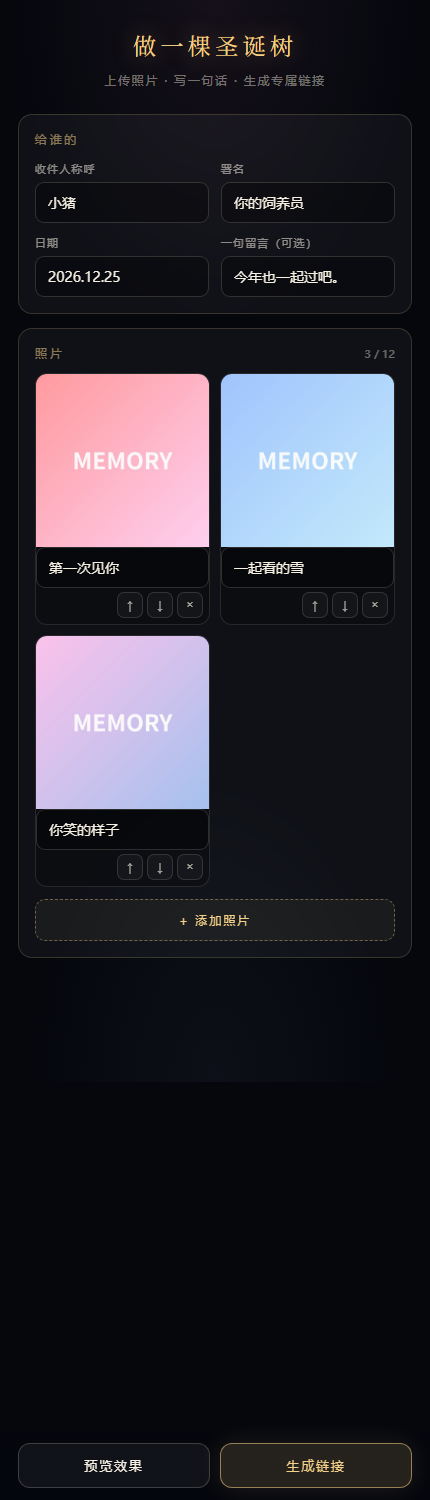
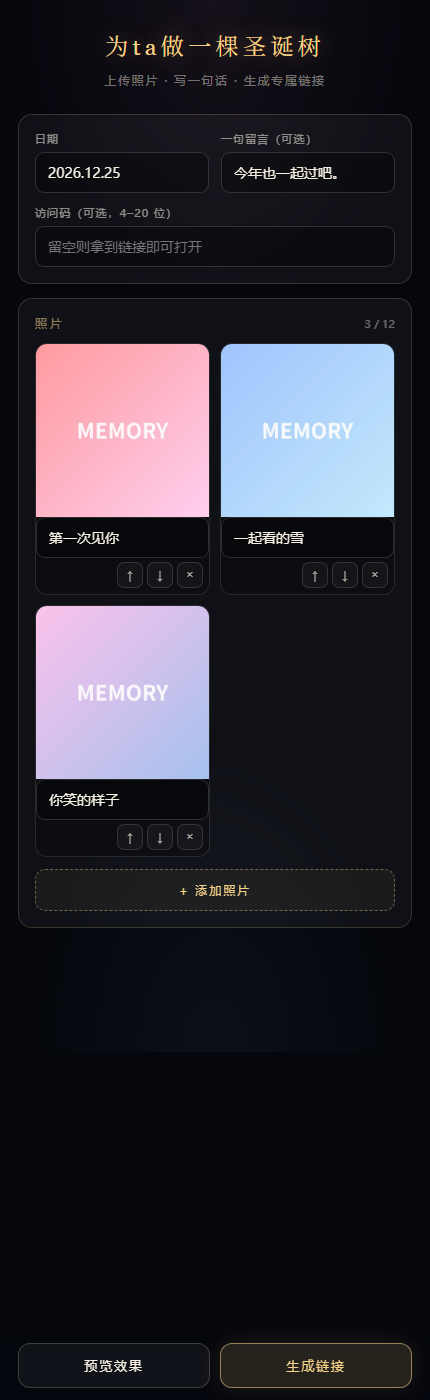
Make the burst more dramatic and simplify the editor

diff --git a/js/main.js b/js/main.js
@@ -90,6 +90,10 @@ let captionGroup;
 let captionSets = [];
 let captionProgress = 0;
 let captionIndex = -1;
+let bloomBase = 1;
+let bloomPulse = 0;
+let ringSprite;
+let ringTime = -1;
 const lookAt = new THREE.Vector3(0, 0.2, 0);
 const cameraPosition = new THREE.Vector3(0, 1.8, 12);
 
@@ -110,6 +114,24 @@ function makeGlowTexture(inner = 1) {
   return texture;
 }
 
+function makeRingTexture() {
+  const size = 256;
+  const canvas = document.createElement("canvas");
+  canvas.width = canvas.height = size;
+  const ctx = canvas.getContext("2d");
+  const g = ctx.createRadialGradient(size / 2, size / 2, size * 0.24, size / 2, size / 2, size / 2);
+  g.addColorStop(0, "rgba(255,255,255,0)");
+  g.addColorStop(0.64, "rgba(255,255,255,0)");
+  g.addColorStop(0.74, "rgba(255,240,205,0.85)");
+  g.addColorStop(0.82, "rgba(255,205,130,0.2)");
+  g.addColorStop(1, "rgba(255,255,255,0)");
+  ctx.fillStyle = g;
+  ctx.fillRect(0, 0, size, size);
+  const texture = new THREE.CanvasTexture(canvas);
+  texture.colorSpace = THREE.SRGBColorSpace;
+  return texture;
+}
+
 function treePosition(index, total) {
   const t = Math.pow((index + 1) / total, 0.82);
   const y = t * 8 - 4;
@@ -119,7 +141,7 @@ function treePosition(index, total) {
 }
 
 function galaxyPosition(scale = 1) {
-  const radius = (2.4 + Math.pow(Math.random(), 1.7) * 5.4) * scale;
+  const radius = (3.6 + Math.pow(Math.random(), 1.6) * 9.4) * scale;
   const theta = Math.random() * Math.PI * 2;
   const phi = Math.acos(2 * Math.random() - 1);
   return [
@@ -167,6 +189,7 @@ function buildScene() {
   composer = new EffectComposer(renderer);
   composer.addPass(new RenderPass(scene, camera));
   bloomPass = new UnrealBloomPass(new THREE.Vector2(window.innerWidth, window.innerHeight), LOW_POWER ? 0.7 : 0.9, 0.5, 0.9);
+  bloomBase = bloomPass.strength;
   composer.addPass(bloomPass);
 
   focusLight = new THREE.PointLight(0xffd28a, 0, 20);
@@ -174,6 +197,14 @@ function buildScene() {
   scene.add(focusLight);
 
   starGlowTexture = makeGlowTexture(1.2);
+  ringSprite = new THREE.Sprite(new THREE.SpriteMaterial({
+    map: makeRingTexture(), color: 0xffe7b5, transparent: true, opacity: 0,
+    depthWrite: false, blending: THREE.AdditiveBlending, toneMapped: false
+  }));
+  ringSprite.position.set(0, 0.3, 0);
+  ringSprite.scale.setScalar(0.1);
+  ringSprite.visible = false;
+  scene.add(ringSprite);
 }
 
 function buildStars() {
@@ -882,10 +913,28 @@ function onResize() {
   bloomPass.resolution.set(window.innerWidth / 2, window.innerHeight / 2);
 }
 
+function triggerBurst() {
+  bloomPulse = 1.0;
+  const flash = document.getElementById("flash");
+  if (flash) {
+    flash.classList.remove("burst");
+    void flash.offsetWidth;
+    flash.classList.add("burst");
+  }
+  if (ringSprite) {
+    ringTime = 0;
+    ringSprite.visible = true;
+    ringSprite.material.opacity = 0.72;
+    ringSprite.scale.setScalar(2);
+  }
+}
+
 function setMode(mode) {
   if (app.mode === mode) return;
+  const wasTree = app.mode === "tree";
   app.mode = mode;
   document.body.classList.toggle("focus-mode", mode === "focus");
+  if (mode === "galaxy" && wasTree) triggerBurst();
   if (mode === "tree") {
     app.target = 0;
     app.focusIndex = -1;
@@ -964,6 +1013,8 @@ function updatePhotos(dt) {
     card.group.position.y += Math.sin(app.time * 0.9 + card.phase) * 0.012;
     card.group.scale.setScalar(card.scale);
     card.group.lookAt(camera.position);
+    const flare = Math.sin(Math.PI * Math.min(1, Math.max(0, app.progress)));
+    card.group.rotateZ(flare * (card.index % 2 ? 0.22 : -0.22));
     const focusedCard = app.mode === "focus" && app.focusIndex === card.index;
     card.group.visible = app.mode !== "focus" || focusedCard;
     card.hit.visible = !(app.mode === "tree" && card.placeholder);
@@ -986,9 +1037,23 @@ function updateTransforms(dt) {
     const local = Math.min(1, Math.max(0, (progress - particles.delays[i] * 0.5) / 0.62));
     const eased = local * local * (3 - 2 * local);
     const breathe = idle ? Math.sin(time * particles.speeds[i] + particles.phases[i]) * 0.02 : 0;
-    pos[i3] = particles.tree[i3] + (particles.galaxy[i3] - particles.tree[i3]) * eased;
-    pos[i3 + 1] = particles.tree[i3 + 1] + (particles.galaxy[i3 + 1] - particles.tree[i3 + 1]) * eased + breathe;
-    pos[i3 + 2] = particles.tree[i3 + 2] + (particles.galaxy[i3 + 2] - particles.tree[i3 + 2]) * eased;
+    let x = particles.tree[i3] + (particles.galaxy[i3] - particles.tree[i3]) * eased;
+    let y = particles.tree[i3 + 1] + (particles.galaxy[i3 + 1] - particles.tree[i3 + 1]) * eased + breathe;
+    let z = particles.tree[i3 + 2] + (particles.galaxy[i3 + 2] - particles.tree[i3 + 2]) * eased;
+    const swell = Math.sin(Math.PI * eased);
+    if (swell > 0.001) {
+      const radius = Math.hypot(x, z);
+      if (radius > 0.01) {
+        const angle = Math.atan2(z, x) + swell * (0.55 + (i % 9) * 0.09);
+        const grown = radius * (1 + swell * 0.5);
+        x = Math.cos(angle) * grown;
+        z = Math.sin(angle) * grown;
+      }
+      y += swell * Math.sin(i * 0.7) * 0.7;
+    }
+    pos[i3] = x;
+    pos[i3 + 1] = y;
+    pos[i3 + 2] = z;
   }
   particleSystem.geometry.attributes.position.needsUpdate = true;
   particleSystem.material.opacity = focusDim;
@@ -1000,9 +1065,22 @@ function updateTransforms(dt) {
     const local = Math.min(1, Math.max(0, (progress - spark.delays[i] * 0.5) / 0.62));
     const eased = local * local * (3 - 2 * local);
     const source = Math.floor(i * (COUNT.particles / spark.count)) % COUNT.particles;
-    sparkPos[i3] = spark.tree[source * 3] + (spark.galaxy[source * 3] - spark.tree[source * 3]) * eased;
-    sparkPos[i3 + 1] = spark.tree[source * 3 + 1] + (spark.galaxy[source * 3 + 1] - spark.tree[source * 3 + 1]) * eased;
-    sparkPos[i3 + 2] = spark.tree[source * 3 + 2] + (spark.galaxy[source * 3 + 2] - spark.tree[source * 3 + 2]) * eased;
+    let x = spark.tree[source * 3] + (spark.galaxy[source * 3] - spark.tree[source * 3]) * eased;
+    let y = spark.tree[source * 3 + 1] + (spark.galaxy[source * 3 + 1] - spark.tree[source * 3 + 1]) * eased;
+    let z = spark.tree[source * 3 + 2] + (spark.galaxy[source * 3 + 2] - spark.tree[source * 3 + 2]) * eased;
+    const swell = Math.sin(Math.PI * eased);
+    if (swell > 0.001) {
+      const radius = Math.hypot(x, z);
+      if (radius > 0.01) {
+        const angle = Math.atan2(z, x) + swell * (0.5 + (i % 6) * 0.1);
+        const grown = radius * (1 + swell * 0.45);
+        x = Math.cos(angle) * grown;
+        z = Math.sin(angle) * grown;
+      }
+    }
+    sparkPos[i3] = x;
+    sparkPos[i3 + 1] = y;
+    sparkPos[i3 + 2] = z;
   }
   sparkleSystem.geometry.attributes.position.needsUpdate = true;
   sparkleSystem.material.opacity = 0.7 * focusDim;
@@ -1114,7 +1192,7 @@ function updateCamera(dt) {
     targetPos.set(0, 0.35, 9.8);
     targetLook.copy(FOCUS_POS);
   } else if (app.mode === "galaxy") {
-    const radius = camera.aspect > 1.15 ? 20 : (LOW_POWER ? 17 : 16.5);
+    const radius = camera.aspect > 1.15 ? 24 : (LOW_POWER ? 20.5 : 20);
     const phi = cameraOrbit.phi;
     targetPos.set(
       radius * Math.sin(phi) * Math.sin(cameraOrbit.theta),
@@ -1161,7 +1239,7 @@ function loop(now) {
   if (app.mode === "tree") {
     app.progress = Math.max(0, app.progress - dt / 1.4);
   } else {
-    app.progress = Math.min(1, app.progress + dt / 1.7);
+    app.progress = Math.min(1, app.progress + dt / 2.0);
   }
 
   pointer.x += (pointer.tx - pointer.x) * 0.05;
@@ -1175,6 +1253,26 @@ function loop(now) {
   updateSnow(dt);
 
   if (starField) starField.rotation.y += dt * 0.004;
+
+  if (ringTime >= 0 && ringSprite) {
+    ringTime += dt;
+    const p = ringTime / 1.15;
+    if (p >= 1) {
+      ringTime = -1;
+      ringSprite.visible = false;
+    } else {
+      ringSprite.visible = true;
+      ringSprite.scale.setScalar(3 + p * 65);
+      ringSprite.material.opacity = (1 - p) * 0.72;
+    }
+  }
+
+  if (bloomPulse > 0.001) {
+    bloomPulse *= Math.exp(-dt * 3.2);
+  } else {
+    bloomPulse = 0;
+  }
+  if (bloomPass) bloomPass.strength = bloomBase + bloomPulse;
 
   composer.render();
 }

diff --git a/js/editor.js b/js/editor.js
@@ -3,8 +3,6 @@ let maxEdge = 1280;
 const QUALITY = 0.82;
 
 const $ = id => document.getElementById(id);
-const toInput = $("to");
-const fromInput = $("from");
 const dateInput = $("date");
 const messageInput = $("message");
 const passwordInput = $("password");
@@ -31,8 +29,6 @@ function toast(text) {
 
 function payload() {
   return {
-    to: toInput.value.trim(),
-    from: fromInput.value.trim(),
     date: dateInput.value.trim() || "2026.12.25",
     message: messageInput.value.trim(),
     password: passwordInput.value.trim(),
@@ -131,8 +127,6 @@ function move(index, delta) {
 function saveMeta() {
   try {
     localStorage.setItem("gift-meta", JSON.stringify({
-      to: toInput.value,
-      from: fromInput.value,
       date: dateInput.value,
       message: messageInput.value
     }));
@@ -143,8 +137,6 @@ function loadMeta() {
   try {
     const meta = JSON.parse(localStorage.getItem("gift-meta") || "null");
     if (!meta) return;
-    if (meta.to) toInput.value = meta.to;
-    if (meta.from) fromInput.value = meta.from;
     if (meta.date) dateInput.value = meta.date;
     if (meta.message) messageInput.value = meta.message;
   } catch (error) {}
@@ -253,17 +245,12 @@ async function makeOgImage() {
   try { await document.fonts.load('400 86px "Zhi Mang Xing"', "给"); } catch (error) {}
   ctx.font = '400 86px "Zhi Mang Xing", "KaiTi", serif';
   ctx.fillStyle = "#f7e6bb";
-  ctx.fillText("给 " + (toInput.value.trim() || "你"), 600, 300, 1000);
+  const centerText = messageInput.value.trim() || "圣诞快乐";
+  ctx.fillText(centerText, 600, 300, 1000);
   if ("letterSpacing" in ctx) ctx.letterSpacing = "6px";
   ctx.font = "400 30px Georgia, serif";
   ctx.fillStyle = "rgba(247,241,227,0.72)";
   ctx.fillText(dateInput.value.trim() || "2026.12.25", 600, 392);
-  const from = fromInput.value.trim();
-  if (from) {
-    ctx.fillStyle = "rgba(244,208,137,0.66)";
-    ctx.font = "400 26px Georgia, serif";
-    ctx.fillText("—— " + from, 600, 446, 900);
-  }
   if ("letterSpacing" in ctx) ctx.letterSpacing = "3px";
   ctx.font = "400 20px Georgia, serif";
   ctx.fillStyle = "rgba(244,208,137,0.48)";
@@ -330,7 +317,7 @@ previewBtn.addEventListener("click", localPreview);
 publishBtn.addEventListener("click", publish);
 $("copyBtn").addEventListener("click", copyLink);
 $("closeResult").addEventListener("click", () => resultModal.classList.add("hidden"));
-[toInput, fromInput, dateInput, messageInput].forEach(input => input.addEventListener("change", saveMeta));
+[dateInput, messageInput].forEach(input => input.addEventListener("change", saveMeta));
 
 async function loadLimits() {
   try {

diff --git a/create.html b/create.html
@@ -4,7 +4,7 @@
 <meta charset="UTF-8">
 <meta name="viewport" content="width=device-width, initial-scale=1, viewport-fit=cover">
 <meta name="theme-color" content="#05070d">
-<title>做一棵圣诞树</title>
+<title>为ta做一棵圣诞树</title>
 <meta name="description" content="上传照片，写一句话，生成属于你们的圣诞树。">
 <link rel="preconnect" href="https://fastly.jsdelivr.net" crossorigin>
 <link rel="stylesheet" href="https://fastly.jsdelivr.net/npm/@fontsource/zhi-mang-xing@5.0.0/index.css">
@@ -146,15 +146,12 @@
 <body>
 <div class="wrap">
   <header>
-    <h1>做一棵圣诞树</h1>
+    <h1>为ta做一棵圣诞树</h1>
     <p>上传照片 · 写一句话 · 生成专属链接</p>
   </header>
 
   <section class="panel">
-    <h2>给谁的</h2>
     <div class="fields">
-      <label class="field"><span>收件人称呼</span><input id="to" type="text" maxlength="12" placeholder="她的小名"></label>
-      <label class="field"><span>署名</span><input id="from" type="text" maxlength="16" placeholder="你的名字"></label>
       <label class="field"><span>日期</span><input id="date" type="text" maxlength="20" value="2026.12.25"></label>
       <label class="field"><span>一句留言（可选）</span><input id="message" type="text" maxlength="40" placeholder="写一句想说的话"></label>
       <label class="field full"><span>访问码（可选，4–20 位）</span><input id="password" type="text" maxlength="20" placeholder="留空则拿到链接即可打开"></label>

diff --git a/index.html b/index.html
@@ -34,6 +34,16 @@
   #stage { position: fixed; inset: 0; cursor: grab; }
   #stage:active { cursor: grabbing; }
   #stage canvas { display: block; }
+  #flash {
+    position: fixed; inset: 0; pointer-events: none; z-index: 3; opacity: 0;
+    background: radial-gradient(circle at 50% 46%, rgba(255,241,205,0.95), rgba(244,208,137,0.4) 32%, transparent 66%);
+  }
+  #flash.burst { animation: burst 0.95s ease-out; }
+  @keyframes burst {
+    0% { opacity: 0; transform: scale(0.6); }
+    14% { opacity: 0.9; }
+    100% { opacity: 0; transform: scale(1.25); }
+  }
   .vignette {
     position: fixed; inset: 0; pointer-events: none; z-index: 2;
     background:
@@ -206,6 +216,7 @@
 <body>
 <div id="stage"></div>
 <div class="vignette"></div>
+<div id="flash"></div>
 
 <header class="topbar">
   <h1>MERRY CHRISTMAS</h1>

diff --git a/README.md b/README.md
@@ -12,6 +12,8 @@
 
 ![圣诞树](docs/tree.png)
 
+![绽放](docs/burst.png)
+
 ![编辑器](docs/editor.png)
 
 ![照片与粒子文案](docs/focus.png)
@@ -20,9 +22,10 @@
 
 - **3D 粒子圣诞树**：暖金灯光、红绿彩球、礼物盒、树顶星，Bloom 泛光与暗角。
 - **手势交互**：MediaPipe Hands 识别张开 / 握拳 / 捏合；没有摄像头时可用点击与拖拽。
+- **绽放式散开**：点击后闪光、冲击波与螺旋外扩，粒子向四周绽开。
 - **照片**：上传后自动压缩；树上是挂饰，散开后飞成星云；点击照片进入特写。
 - **每张照片一句文案**：特写时由粒子以艺术字（Zhi Mang Xing 行书）汇聚在照片上方。
-- **个性化链接**：收件人称呼、署名、日期、留言；链接形如 `/?g=<12位ID>`。
+- **个性化链接**：日期与留言；链接形如 `/?g=<12位ID>`。
 - **二维码**：生成链接时同步生成二维码，方便当面扫。
 - **动态分享卡片**：`/?g=<id>` 由服务端输出动态标题、描述和 OG 图；未加密礼物会使用浏览器生成的专属 1200×630 分享图。
 - **访问码**：可选 4–20 位访问码；加盐哈希存储，照片使用 7 天有效的 HMAC 签名地址，不能靠猜路径直接访问。
@@ -33,7 +36,7 @@
 
 1. 打开 https://winter-gift.pages.dev ，进入编辑器。
 2. 上传 1–12 张照片（开通 R2 后最多 20 张），可调整顺序、逐张填写文案。
-3. 填写收件人、署名、日期、留言；需要保密就设置访问码。
+3. 填写日期、留言；需要保密就设置访问码。
 4. 点「预览效果」在本机查看，或点「生成链接」得到链接、二维码与访问码。
 5. 把链接（和访问码，如有）发给对方。
 
